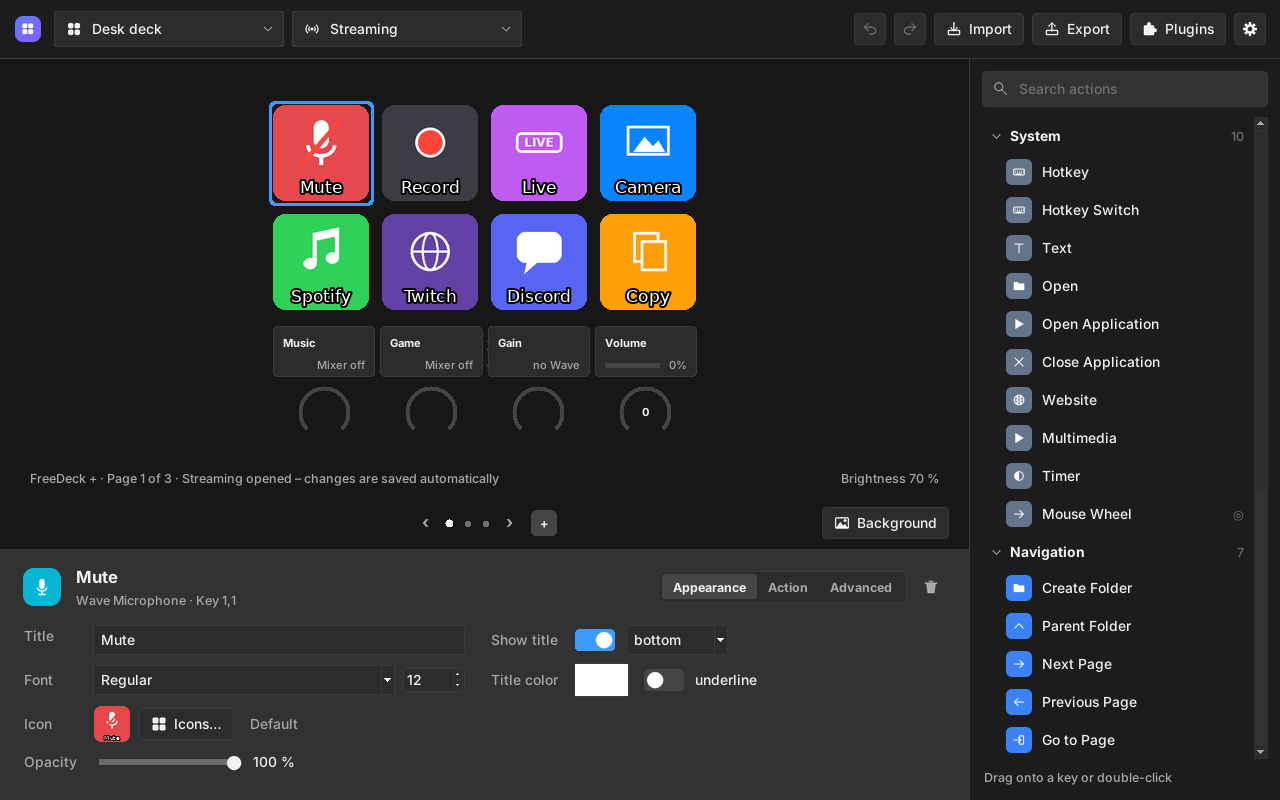
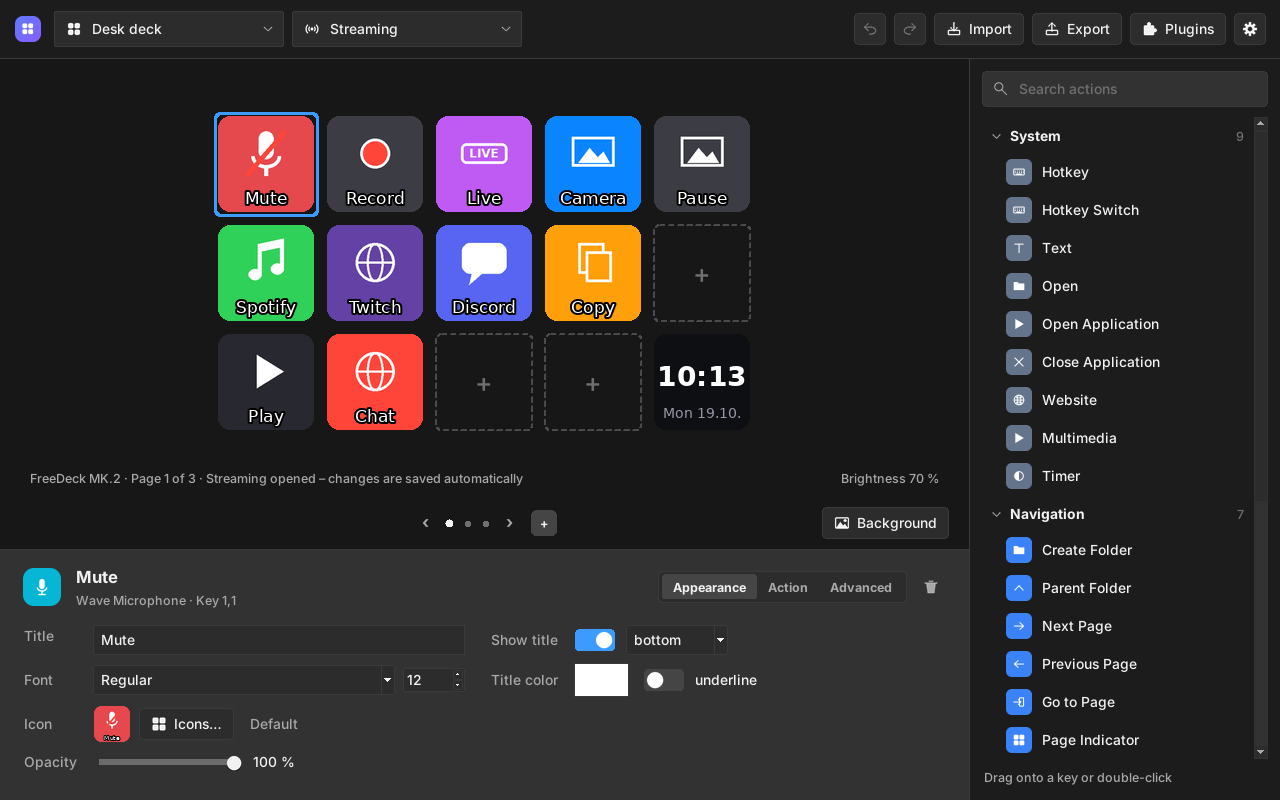
Docs: FreeDeck screenshots with a Stream Deck MK.2 profile (5 x 3 keys)
Claude-Session: https://claude.ai/code/session_01ScnBRq2ic6dcuKmkjMBFsu

diff --git a/docs/screenshots.py b/docs/screenshots.py
@@ -108,7 +108,7 @@ def shot_freedeck(tmp):
     from freestream import editor
     store = tmp / "profiles"
     store.mkdir()
-    doc = E.ProfileDoc(E.create_profile("Streaming", "20GBD9901", store))  # Stream Deck +
+    doc = E.ProfileDoc(E.create_profile("Streaming", "20GBA9901", store))  # Stream Deck MK.2 (5 × 3)
     page = doc.page_ids[0]
     icons = tmp / "icons"
     icons.mkdir()
@@ -122,6 +122,7 @@ def shot_freedeck(tmp):
          {"path": "https://twitch.tv", "openInBrowser": True}),
         (("key", 2, 1), "com.lindeck.discord.voice", "Discord", (88, 101, 242), "chat", {"function": "mute"}),
         (("key", 3, 1), "com.elgato.streamdeck.system.hotkey", "Copy", (255, 159, 10), "copy", None),
+        (("key", 4, 0), "com.lindeck.obs.scene", "Pause", (60, 60, 68), "scene", {"scene": "Pause"}),
     ]
     for slot, uuid, title, color, glyph, settings in keys:
         a = doc.place(page, slot, uuid)
@@ -133,19 +134,22 @@ def shot_freedeck(tmp):
         doc.set_icon(page, slot, 0, path)
         doc.update_state(page, slot, 0, "Title", title)
         doc.update_state(page, slot, 0, "TitleAlignment", "bottom")
-    for i, (uuid, title, settings) in enumerate((
-            ("com.lindeck.mixer.channel", "Music", {"channel": "music", "mix": "stream"}),
-            ("com.lindeck.mixer.channel", "Game", {"channel": "game", "mix": "monitor"}),
-            ("com.lindeck.wavemic.control", "Gain", {"function": "gain"}),
-            ("com.elgato.volume-controller.output-device-control", "Volume", {}))):
-        a = doc.place(page, ("dial", i), uuid)
+    # untere Reihe: Wiedergabe, Website und eine Uhr (zeigt die Zeit live)
+    for slot, uuid, title, color, glyph, settings in (
+            (("key", 0, 2), "com.lindeck.media.player", "Play", (40, 40, 48), "play", {}),
+            (("key", 1, 2), "com.elgato.streamdeck.system.website", "Chat", (255, 69, 58), "web",
+             {"path": "https://twitch.tv/popout/chat", "openInBrowser": True})):
+        a = doc.place(page, slot, uuid)
         a.setdefault("Settings", {}).update(settings)
-        doc.update_state(page, ("dial", i), 0, "Title", title)
+        doc.set_icon(page, slot, 0, icon(icons / f"{glyph}2.png", color, glyph))
+        doc.update_state(page, slot, 0, "Title", title)
+        doc.update_state(page, slot, 0, "TitleAlignment", "bottom")
+    doc.place(page, ("key", 4, 2), "com.lindeck.clock.clock")
     doc.add_page()
     doc.add_page()
     doc.save()
     others = {}
-    for name, code, pages in (("Gaming", "20GBD9901", 2), ("Video editing", "20GBD9901", 1),
+    for name, code, pages in (("Gaming", "20GBA9901", 2), ("Video editing", "20GBA9901", 1),
                               ("Meetings", "20GAI9902", 1)):
         d = E.ProfileDoc(E.create_profile(name, code, store))
         for _i in range(pages - 1):
@@ -161,11 +165,11 @@ def shot_freedeck(tmp):
     paths.CONFIG_DIR, paths.CONFIG_FILE = tmp / "config", tmp / "config" / "config.json"
     profiles = ProfileStore(store)
 
-    class Ctrl(FakeCtrl):  # angeschlossenes Stream Deck + (simuliert), mit allem für Einstellungen › Geräte
+    class Ctrl(FakeCtrl):  # angeschlossenes Stream Deck MK.2 (simuliert), mit allem für Einstellungen › Geräte
         brightness, firmware = 70, "1.02.010"
 
         def candidate_profiles(self):
-            return [p for p in profiles.profiles.values() if p.model == "20GBD9901"]
+            return [p for p in profiles.profiles.values() if p.model == "20GBA9901"]
 
         def set_brightness(self, v):
             self.brightness = v
@@ -175,7 +179,7 @@ def shot_freedeck(tmp):
 
         def set_rotation(self, deg):
             pass
-    ctrl = Ctrl("DL41K1A04321", "20GBD9901", Geometry(4, 2, 4), doc.id)
+    ctrl = Ctrl("DL41K1A04321", "20GBA9901", Geometry(5, 3), doc.id)
     ctrl.profile = profiles.get(doc.id)
     cfg = Config()
     cfg.data.update({"devices": {"DL41K1A04321": {"name": "Desk deck", "sleep_after_minutes": 15},
@@ -307,7 +311,8 @@ def shot_background(tmp, root, app, _doc):
         doc.update_state(pid, ("key", c, r), 0, "Title", title)
         doc.update_state(pid, ("key", c, r), 0, "TitleAlignment", "bottom")
     doc.set_background(pid, wp, dim=15)
-    doc.set_strip_background(pid, strip)
+    if doc.geometry.dials:  # Touchstreifen nur beim Stream Deck +
+        doc.set_strip_background(pid, strip)
     doc.save()
     app.goto_page(pid)
     app.select(("key", 2, 0))

diff --git a/README.md b/README.md
@@ -9,7 +9,7 @@ FreeStream brings the Elgato streaming setup to Linux with **two programs**:
 
 | FreeDeck | FreeWave |
 |---|---|
-| ![FreeDeck window with a Stream Deck +](docs/images/freedeck-window.png) | ![FreeWave mixer](docs/images/freewave-mixer.png) |
+| ![FreeDeck window with a Stream Deck MK.2](docs/images/freedeck-window.png) | ![FreeWave mixer](docs/images/freewave-mixer.png) |
 
 Available in **English, German, Spanish, French and Portuguese (Brazil)**.
 
